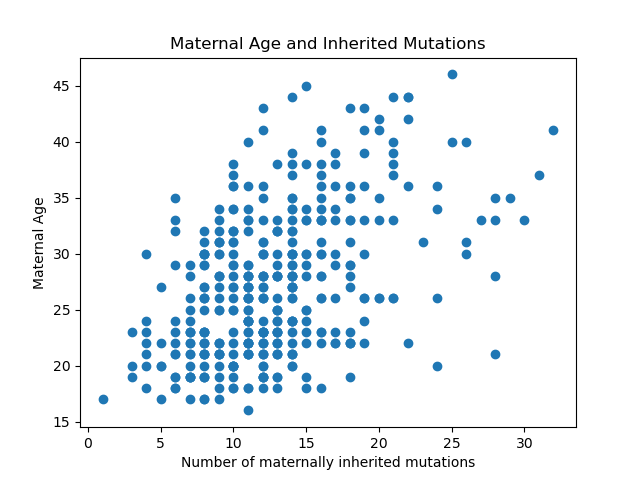
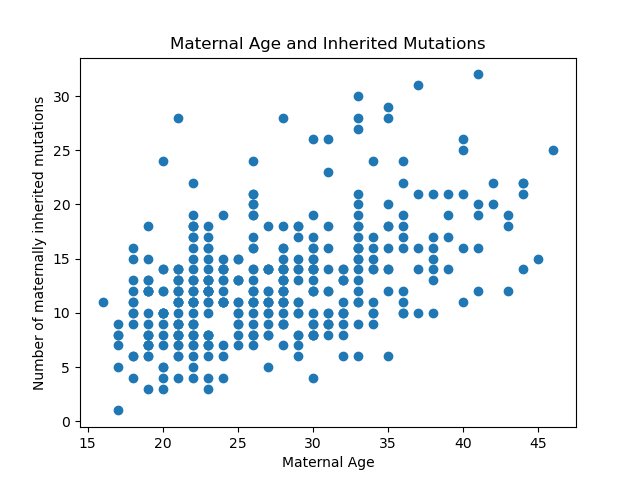
Updated after TA feedback

diff --git a/day5-lunch/day5_lunch.py b/day5-lunch/day5_lunch.py
@@ -10,28 +10,36 @@ fs = np.genfromtxt("joined_parent.tsv", dtype = None,
                     encoding = None,
                     names = ["Proband_id", "Father_age", "Mother_age", "Paternal_count", "father", "Maternal_count", "mother"])
 
-# plot the parent age and number of mutations
-# fig, ax = plt.subplots()
-# ax.scatter(fs["Maternal_count"], fs["Mother_age"])
-# ax.set_xlabel("Number of maternally inherited mutations")
-# ax.set_ylabel("Maternal Age")
-# plt.title("Maternal Age and Inherited Mutations")
-# plt.savefig("ex2_a.png")
+# plot the maternal age and number of mutations
+fig, ax = plt.subplots()
+ax.scatter(fs["Mother_age"], fs["Maternal_count"])
+ax.set_xlabel("Maternal Age")
+ax.set_ylabel("Number of maternally inherited mutations")
+plt.title("Maternal Age and Inherited Mutations")
+plt.savefig("ex2_a.png")
 
-# # OLS for association between maternal age and mutations
-# mat_model = smf.ols(formula = "Maternal_count ~ 1 + Mother_age", data = fs).fit()
-# print(mat_model.summary())
-#
-# # # OLS for association between paternal age and mutations
-# pat_model = smf.ols(formula = "Paternal_count ~ 1 + Father_age", data = fs).fit()
-# print(pat_model.summary())
+# plot the maternal age and number of mutations
+fi, a = plt.subplots()
+a.scatter(fs["Father_age"], fs["Paternal_count"])
+a.set_xlabel("Number of paternally inherited mutations")
+a.set_ylabel("Paternal Age")
+plt.title("Paternal Age and Inherited Mutations")
+plt.savefig("ex2_b.png")
+
+# OLS for association between maternal age and mutations
+mat_model = smf.ols(formula = "Mother_age ~ 1 + Maternal_count", data = fs).fit()
+print(mat_model.summary())
+
+# OLS for association between paternal age and mutations
+pat_model = smf.ols(formula = "Father_age ~ 1 + Paternal_count", data = fs).fit()
+print(pat_model.summary())
 
 # # histogram of maternal vs paternal mutation counts
-fig, ax = plt.subplots()
-ax.hist(fs["Maternal_count"], alpha =  0.5, label = "Maternally-inherited mutations")
-ax.hist(fs["Paternal_count"], alpha =  0.5, label = "Paternally-inherited mutations")
-ax.set_xlabel("Number of mutations")
-ax.set_ylabel("Frequency")
+f, z = plt.subplots()
+z.hist(fs["Maternal_count"], alpha =  0.5, label = "Maternally-inherited mutations")
+z.hist(fs["Paternal_count"], alpha =  0.5, label = "Paternally-inherited mutations")
+z.set_xlabel("Number of mutations")
+z.set_ylabel("Frequency")
 plt.legend()
 plt.title("Frequency of Paternal and Maternal Mutations")
 plt.savefig("ex2_c.png")

diff --git a/day5-lunch/README.md b/day5-lunch/README.md
@@ -3,27 +3,30 @@
 grep -v "Proband_id" aau1043_dnm.csv > dnm_nohead.csv
 sort -k 5 -t ',' dnm_nohead.csv > dnm_nohead.sorted.csv 
 
-phase_combined=mother - print for mother
+---phase_combined=mother - print for mother---
 awk 'BEGIN{FS=","; OFS="\t"} {if ($6=="mother") {print $5,$6}}' dnm_nohead.sorted.csv > maternal.tsv
-
-awk 'BEGIN{FS=","; OFS="\t"} {if ($6=="father") {print $5,$6}}' dnm_nohead.sorted.csv > paternal.tsv
-
 uniq -c maternal.tsv > counts_maternal.tsv
+
+---phase_combined=father - print for father---
+awk 'BEGIN{FS=","; OFS="\t"} {if ($6=="father") {print $5,$6}}' dnm_nohead.sorted.csv > paternal.tsv
+uniq -c paternal.tsv > counts_paternal.tsv
+
 
 ---Join the counts tables---
 join -1 2 -2 2  counts_paternal.tsv counts_maternal.tsv > joined.tsv
 
 ---Convert the Parent Age File to space-separated and Sort---
+grep -v "Proband_id" aau1043_parental_age.csv > parent_age_nohead.csv
 tr "," " " < parent_age_nohead.csv | sort > parent_age_nohead.tsv
 
 ---Add the parental ages---
 join -1 1 -2 1 parent_age_nohead.tsv joined.tsv > joined_parent.tsv
 
 ##Exercise 2
-2. The relationship is significant because the p-value is small.  The size of the relationship is 0.3.
-This means that for probands gain a de novo mutation for every 0.3 years the mother is older by the time of birth
-3. The relationship between paternal age and inherited mutations is significant and the size is 1.3.
-This means that for probands gain a de novo mutation for every 1.3 years the father is older by the time of birth.
+3. The relationship is significant because the p-value is small.  The size of the relationship is 0.6.
+This means that for probands gains 0.6 de novo mutations for every year the mother is older by the time of birth
+4. The relationship between paternal age and inherited mutations is significant and the size is 0.45.
+This means that for probands gains 0.45 de novo mutations for every year the father is older by the time of birth.
 6. There is a significant difference between the number of maternally- and paternally-inherited mutations per proband.
 Ttest_relResult(statistic=-61.60929763491804, pvalue=1.1245140794572799e-204)
 7. There should be about 78 de novo mutations with a father who is 50.5 y/o at the time of birth.
